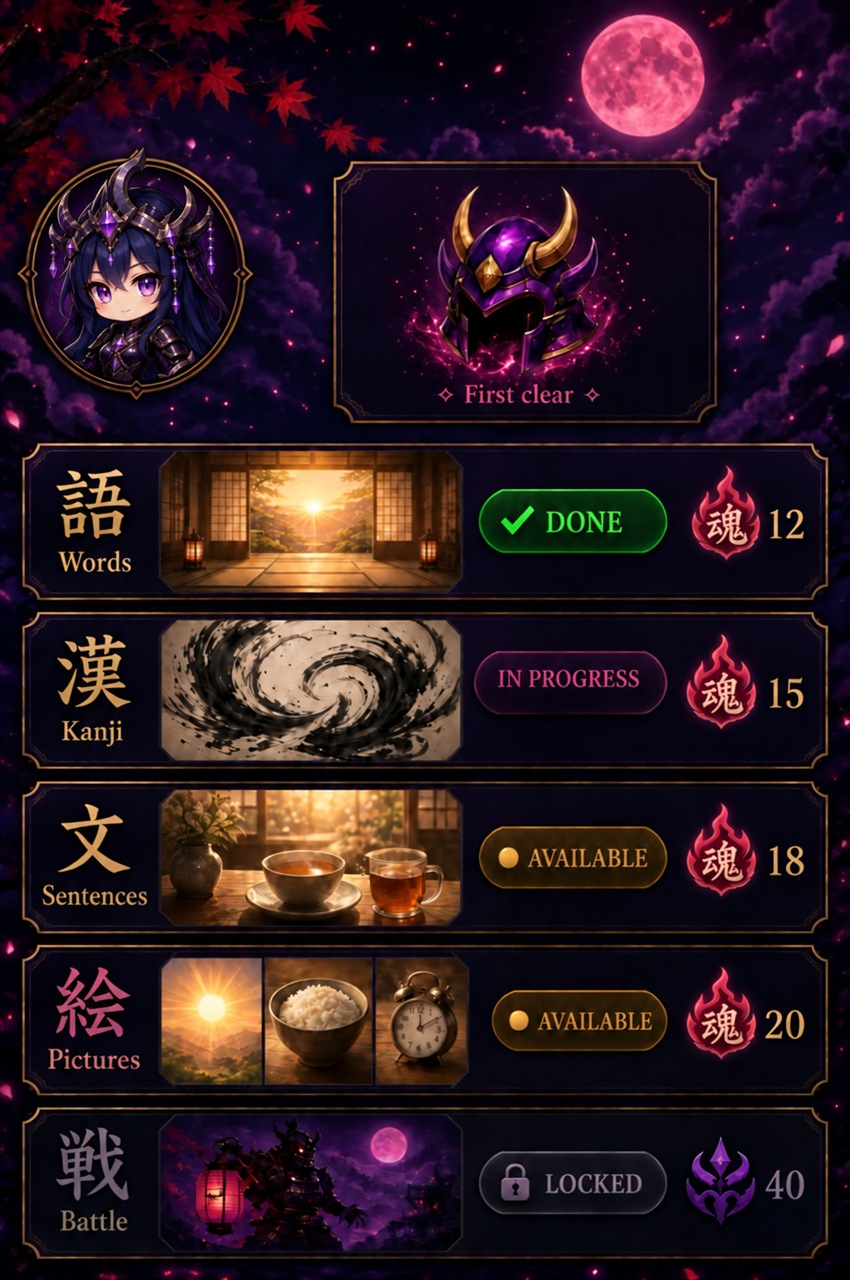
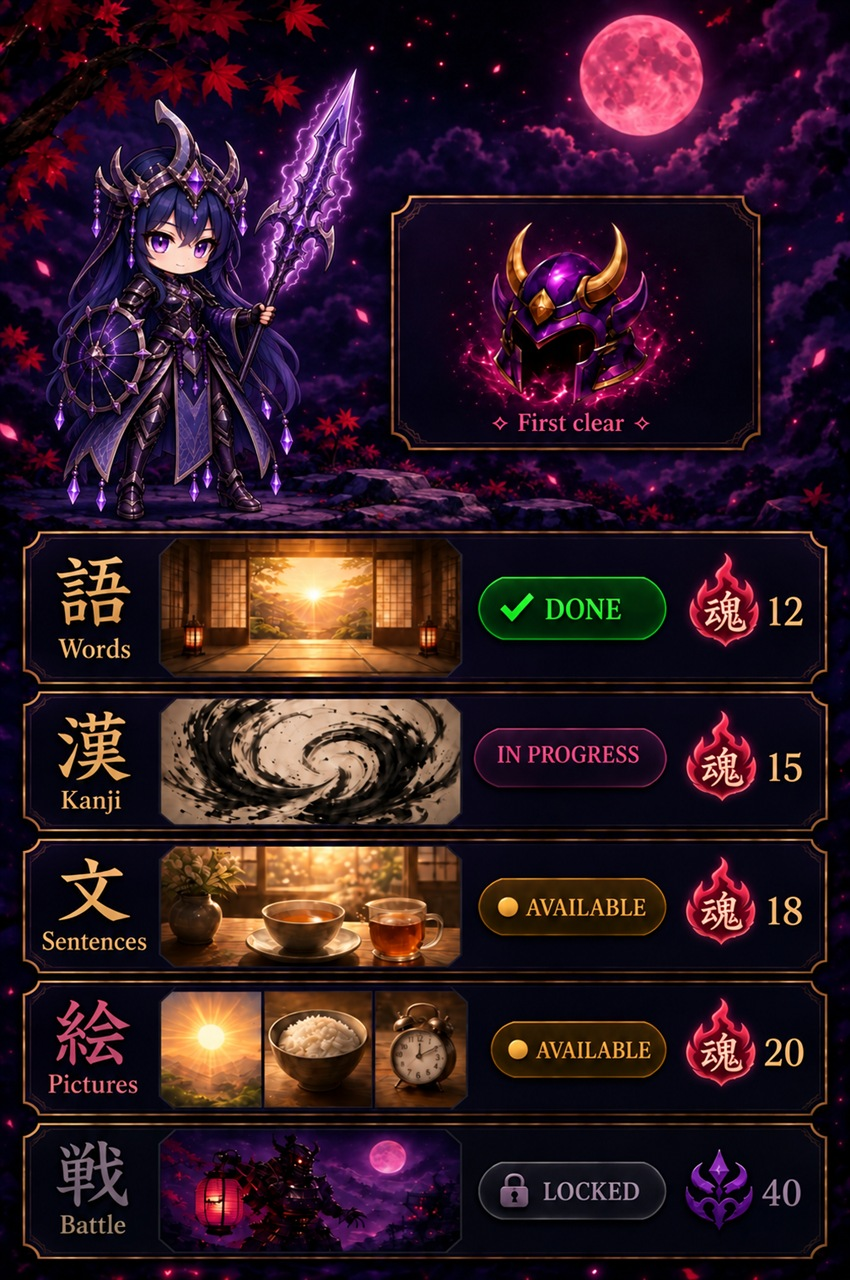
Expand quest challenge character art

diff --git a/src/App.css b/src/App.css
@@ -16307,7 +16307,7 @@ body:has(.quest-battle-card) .app{padding-top:.35rem;padding-bottom:0}.quest-bat
   }
 
   .quest-mobile-challenge-frame {
-    --quest-mobile-content-shift: clamp(1.2rem, 3dvh, 2rem);
+    --quest-mobile-content-shift: clamp(.4rem, 1.2dvh, .75rem);
     position: relative;
     width: min(100vw, calc((100dvh - 5.25rem - env(safe-area-inset-bottom)) * 784 / 1168));
     height: min(calc(100dvh - 5.25rem - env(safe-area-inset-bottom)), calc(100vw * 1168 / 784));
@@ -16325,7 +16325,7 @@ body:has(.quest-battle-card) .app{padding-top:.35rem;padding-bottom:0}.quest-bat
     width: 100%;
     height: 100%;
     object-fit: cover;
-    transform: translateY(-10.65%);
+    transform: translateY(-12.3%);
     user-select: none;
     -webkit-user-drag: none;
   }
@@ -16409,23 +16409,23 @@ body:has(.quest-battle-card) .app{padding-top:.35rem;padding-bottom:0}.quest-bat
   }
 
   .quest-mobile-challenge-row-vocab {
-    top: calc(36.3% + var(--quest-mobile-content-shift));
+    top: calc(41.7% + var(--quest-mobile-content-shift));
   }
 
   .quest-mobile-challenge-row-kanji {
-    top: calc(49.5% + var(--quest-mobile-content-shift));
+    top: calc(54% + var(--quest-mobile-content-shift));
   }
 
   .quest-mobile-challenge-row-sentences {
-    top: calc(62.6% + var(--quest-mobile-content-shift));
+    top: calc(65.9% + var(--quest-mobile-content-shift));
   }
 
   .quest-mobile-challenge-row-pictures {
-    top: calc(75.9% + var(--quest-mobile-content-shift));
+    top: calc(76.8% + var(--quest-mobile-content-shift));
   }
 
   .quest-mobile-challenge-row-battle {
-    top: calc(88.6% + var(--quest-mobile-content-shift));
+    top: calc(88% + var(--quest-mobile-content-shift));
   }
 
   .quest-mobile-step-progress {
@@ -16456,23 +16456,23 @@ body:has(.quest-battle-card) .app{padding-top:.35rem;padding-bottom:0}.quest-bat
   }
 
   .quest-mobile-step-progress-vocab {
-    top: calc(42.6% + var(--quest-mobile-content-shift));
+    top: calc(48% + var(--quest-mobile-content-shift));
   }
 
   .quest-mobile-step-progress-kanji {
-    top: calc(55.8% + var(--quest-mobile-content-shift));
+    top: calc(60.2% + var(--quest-mobile-content-shift));
   }
 
   .quest-mobile-step-progress-grammar {
-    top: calc(68.9% + var(--quest-mobile-content-shift));
+    top: calc(72.1% + var(--quest-mobile-content-shift));
   }
 
   .quest-mobile-step-progress-scene {
-    top: calc(82.2% + var(--quest-mobile-content-shift));
+    top: calc(83% + var(--quest-mobile-content-shift));
   }
 
   .quest-mobile-step-progress-checkpoint {
-    top: calc(94.9% + var(--quest-mobile-content-shift));
+    top: calc(94.2% + var(--quest-mobile-content-shift));
   }
 
   .quest-mobile-challenge-row:focus-visible {

diff --git a/src/components/QuestHub.tsx b/src/components/QuestHub.tsx
@@ -294,7 +294,7 @@ function MobileQuestChallengeScreen({
   return (
     <section className="quest-mobile-challenge-screen" aria-label={`${quest.title} challenge steps`}>
       <div className="quest-mobile-challenge-frame">
-        <img className="quest-mobile-challenge-art" src="/quest-mobile-challenge.jpg?v=3" alt={`${quest.title} challenge steps`} />
+        <img className="quest-mobile-challenge-art" src="/quest-mobile-challenge.jpg?v=4" alt={`${quest.title} challenge steps`} />
         <div className="quest-mobile-shared-header" aria-hidden="true" />
         <div className="quest-mobile-soul-balance" aria-label="1240 souls">
           <span lang="ja" aria-hidden="true">魂</span>
